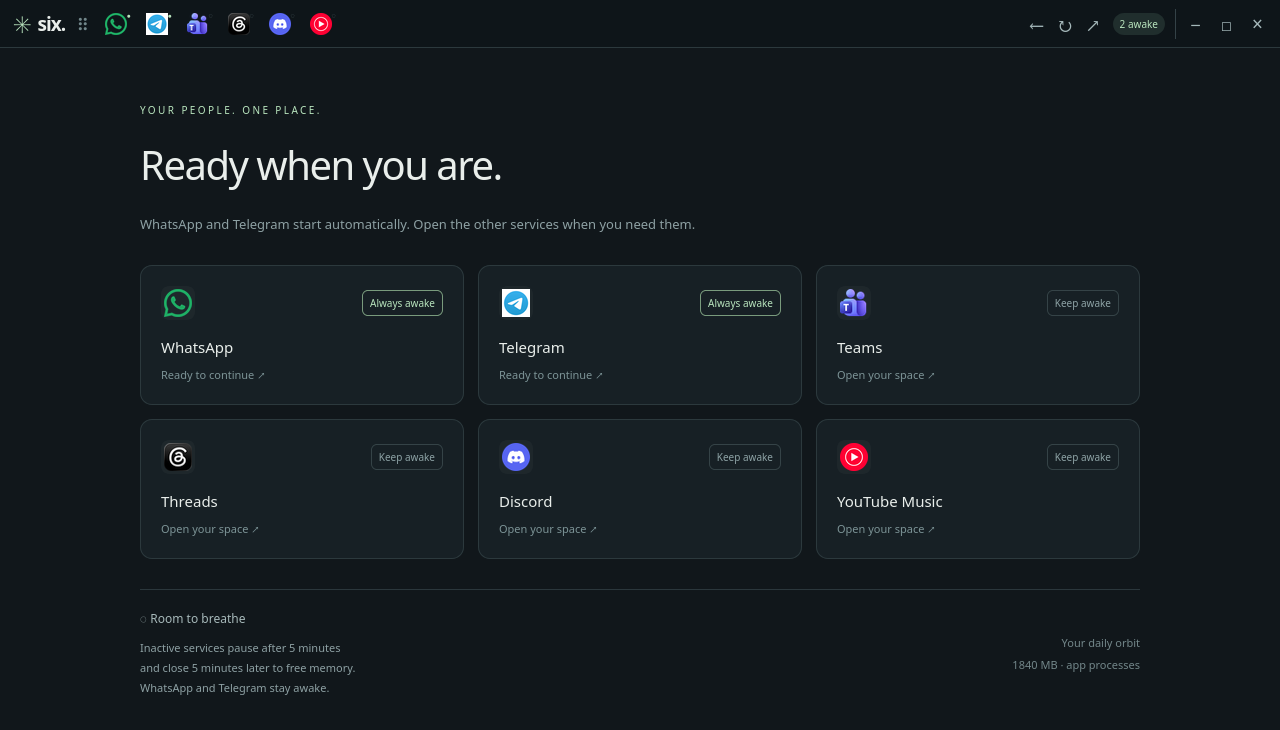
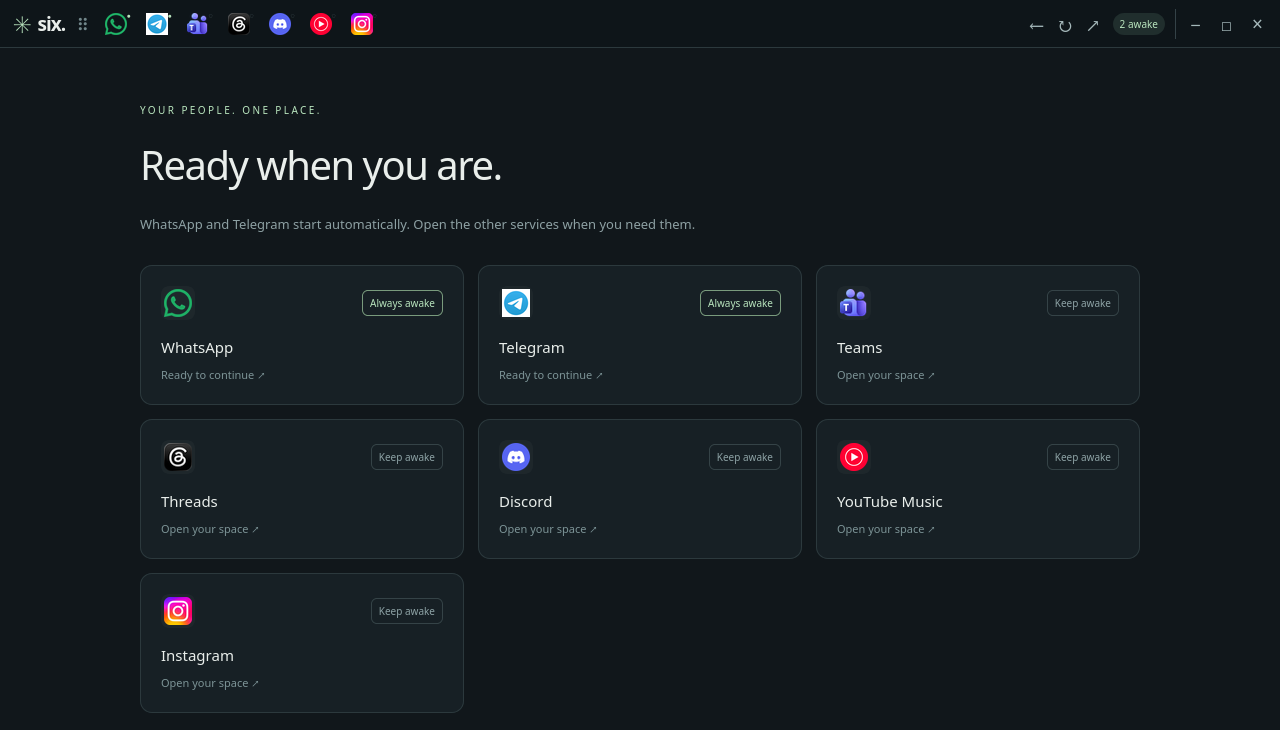
Add Instagram
New Instagram tab (www.instagram.com) with its icon, added after the
existing tabs so current tab positions do not move. README table and
home screen picture updated.

diff --git a/policy.test.js b/policy.test.js
@@ -2,17 +2,17 @@ const {test}=require('node:test'),assert=require('node:assert/strict');const {sl
 test('light startup opens only WhatsApp and Telegram while all services remain available',()=>{
  const {startupServices}=require('./policy');
  assert.deepEqual(startupServices.map(s=>s.id),['whatsapp','telegram']);
- assert.deepEqual(services.map(s=>s.id),['whatsapp','telegram','teams','threads','discord','ytmusic']);
+ assert.deepEqual(services.map(s=>s.id),['whatsapp','telegram','teams','threads','discord','ytmusic','instagram']);
 });
 test('only idle, unpinned, silent background services sleep',()=>{const entries=[{id:'active',lastActive:0},{id:'idle',lastActive:0},{id:'pinned',lastActive:0,keepAlive:true},{id:'call',lastActive:0,audible:true},{id:'recent',lastActive:950}];assert.deepEqual(sleepCandidates(entries,'active',1000,500),['idle'])});
 test('reject unsafe external protocols',()=>{for(const u of ['javascript:alert(1)','file:///etc/passwd','not a url'])assert.equal(safeURL(u),false);assert.equal(safeURL('https://discord.com'),true)});
-test('unique service session identifiers',()=>assert.equal(new Set(services.map(s=>s.id)).size,6));
+test('unique service session identifiers',()=>assert.equal(new Set(services.map(s=>s.id)).size,7));
 test('hibernate at five minutes, preserve WhatsApp and Telegram regardless of pin setting',()=>{
  const {hibernateAfter}=require('./policy');
- const entries=['discord','whatsapp','telegram','threads','teams','ytmusic'].map(id=>({id,lastActive:0,keepAlive:false}));
+ const entries=['discord','whatsapp','telegram','threads','teams','ytmusic','instagram'].map(id=>({id,lastActive:0,keepAlive:false}));
  assert.deepEqual(sleepCandidates(entries,'teams',hibernateAfter-1),[]);
- assert.deepEqual(sleepCandidates(entries,'teams',hibernateAfter),['discord','threads','ytmusic']);
- assert.deepEqual(sleepCandidates(entries,'teams',hibernateAfter*10),['discord','threads','ytmusic']);
+ assert.deepEqual(sleepCandidates(entries,'teams',hibernateAfter),['discord','threads','ytmusic','instagram']);
+ assert.deepEqual(sleepCandidates(entries,'teams',hibernateAfter*10),['discord','threads','ytmusic','instagram']);
 });
 test('frozen services close after 5 more idle minutes, never always-awake, pinned, audible or active ones',()=>{
  const {discardCandidates,discardAfter}=require('./policy');

diff --git a/policy.js b/policy.js
@@ -1,9 +1,9 @@
-const services=[['discord','Discord','https://discord.com/app','#939cff','D'],['whatsapp','WhatsApp','https://web.whatsapp.com','#68dba4','W'],['threads','Threads','https://www.threads.com','#eee9e1','@'],['teams','Teams','https://teams.microsoft.com/v2/','#b3a2ff','T'],['telegram','Telegram','https://web.telegram.org/a/','#72cafa','↗'],['ytmusic','YouTube Music','https://music.youtube.com','#ff4e45','♪']].map(([id,name,url,color,glyph])=>({id,name,url,color,glyph}));
-const iconTypes={whatsapp:'webp',telegram:'png',teams:'ico',threads:'ico',discord:'png',ytmusic:'png'};
+const services=[['discord','Discord','https://discord.com/app','#939cff','D'],['whatsapp','WhatsApp','https://web.whatsapp.com','#68dba4','W'],['threads','Threads','https://www.threads.com','#eee9e1','@'],['teams','Teams','https://teams.microsoft.com/v2/','#b3a2ff','T'],['telegram','Telegram','https://web.telegram.org/a/','#72cafa','↗'],['ytmusic','YouTube Music','https://music.youtube.com','#ff4e45','♪'],['instagram','Instagram','https://www.instagram.com','#e1306c','◎']].map(([id,name,url,color,glyph])=>({id,name,url,color,glyph}));
+const iconTypes={whatsapp:'webp',telegram:'png',teams:'ico',threads:'ico',discord:'png',ytmusic:'png',instagram:'png'};
 services.forEach(s=>s.icon='icons/'+s.id+'.'+iconTypes[s.id]);
 const alwaysAwake=new Set(['whatsapp','telegram']);
 const hibernateAfter=5*60*1000;
-const order=['whatsapp','telegram','teams','threads','discord','ytmusic'];
+const order=['whatsapp','telegram','teams','threads','discord','ytmusic','instagram'];
 services.sort((a,b)=>order.indexOf(a.id)-order.indexOf(b.id));
 const startupServices=services.filter(s=>alwaysAwake.has(s.id));
 function sleepCandidates(entries,active,now,delay=hibernateAfter){return entries.filter(e=>e.id!==active&&!alwaysAwake.has(e.id)&&!e.keepAlive&&!e.callActive&&!e.audible&&now-e.lastActive>=delay).map(e=>e.id)}

diff --git a/README.md b/README.md
@@ -1,6 +1,6 @@
 # Six
 
-Your messaging services in one quiet home. Six is a small Linux desktop app that puts Discord, WhatsApp, Threads, Teams, Telegram and YouTube Music side by side as compact tabs, and keeps them light on memory and CPU.
+Your messaging services in one quiet home. Six is a small Linux desktop app that puts Discord, WhatsApp, Threads, Instagram, Teams, Telegram and YouTube Music side by side as compact tabs, and keeps them light on memory and CPU.
 
 ![Six home screen](docs/screenshot.png)
 
@@ -15,6 +15,7 @@ Your messaging services in one quiet home. Six is a small Linux desktop app that
 | Teams | teams.microsoft.com | Microphone, camera and screen sharing for calls |
 | Threads | threads.com | |
 | Discord | discord.com | |
+| Instagram | instagram.com | |
 | YouTube Music | music.youtube.com | Plays protected tracks; ads are removed |
 
 Each service has its own saved login, kept separate from the others.
